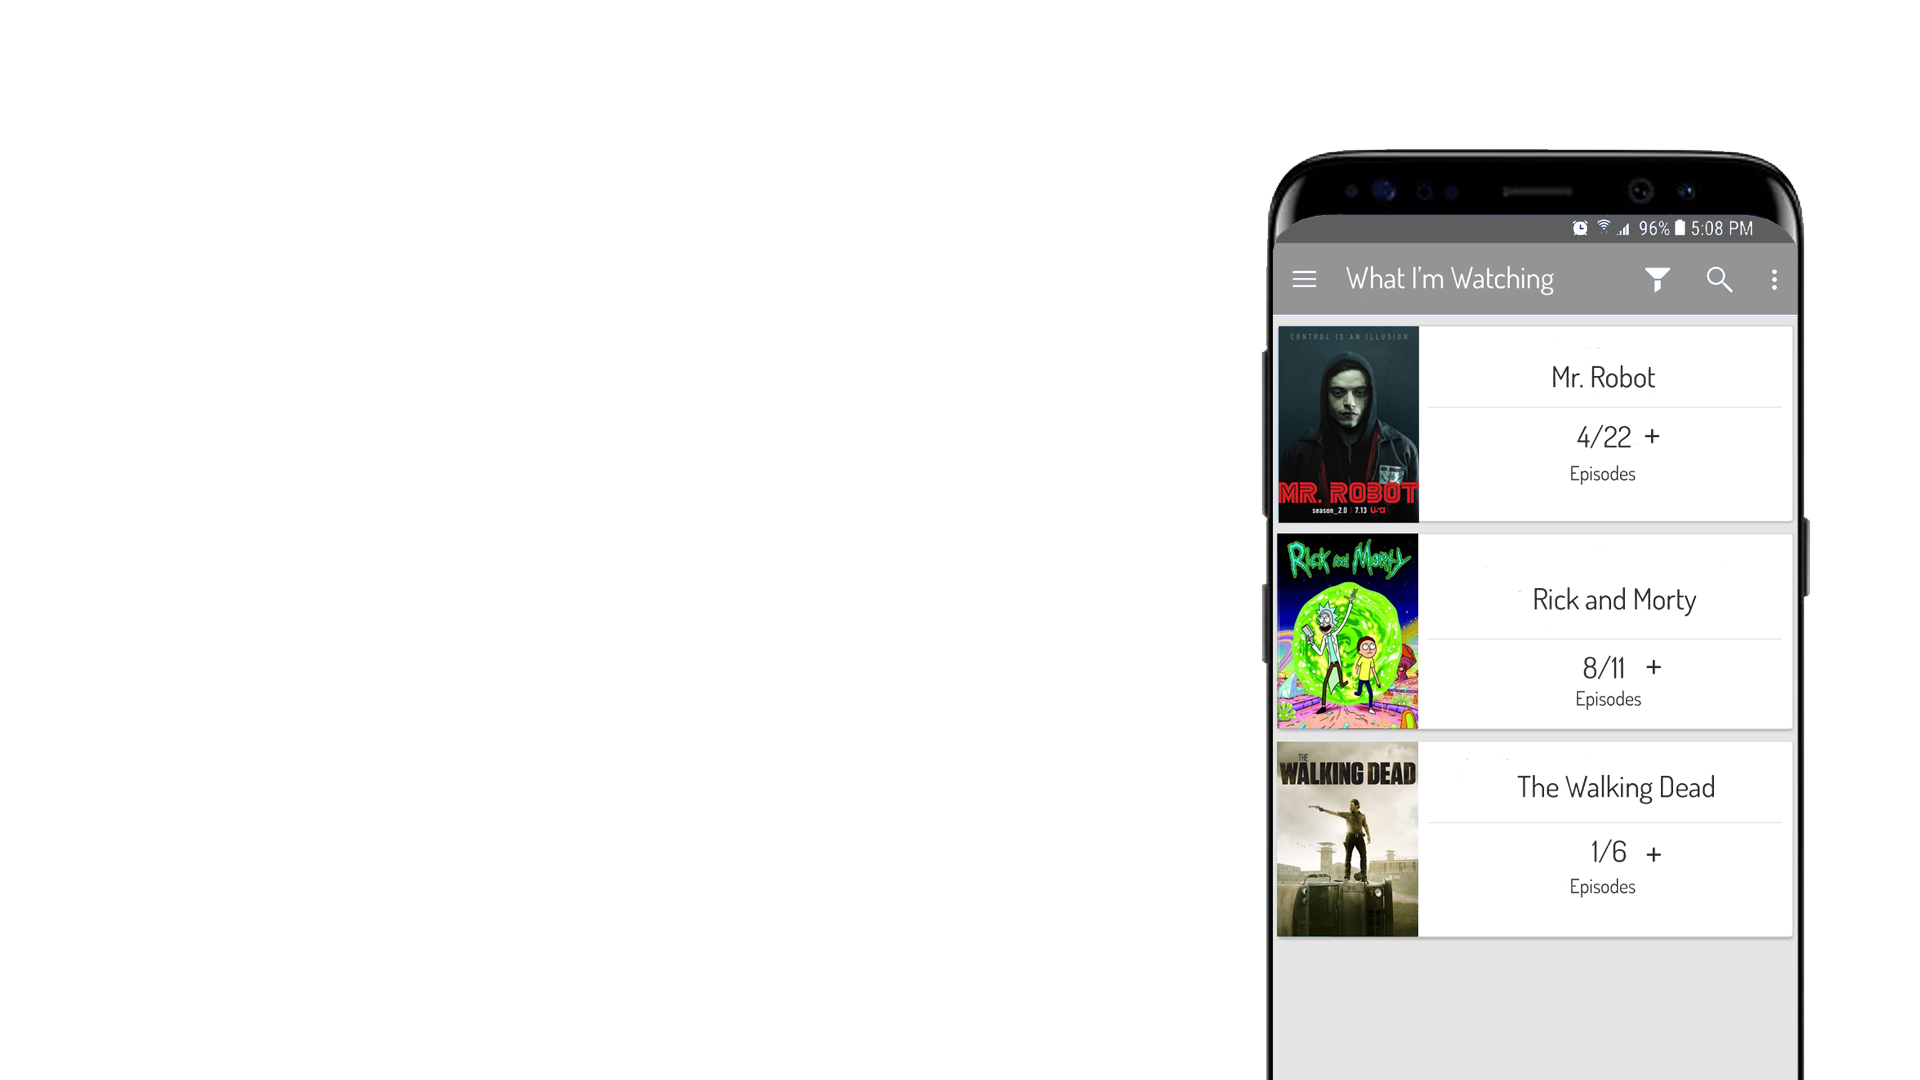
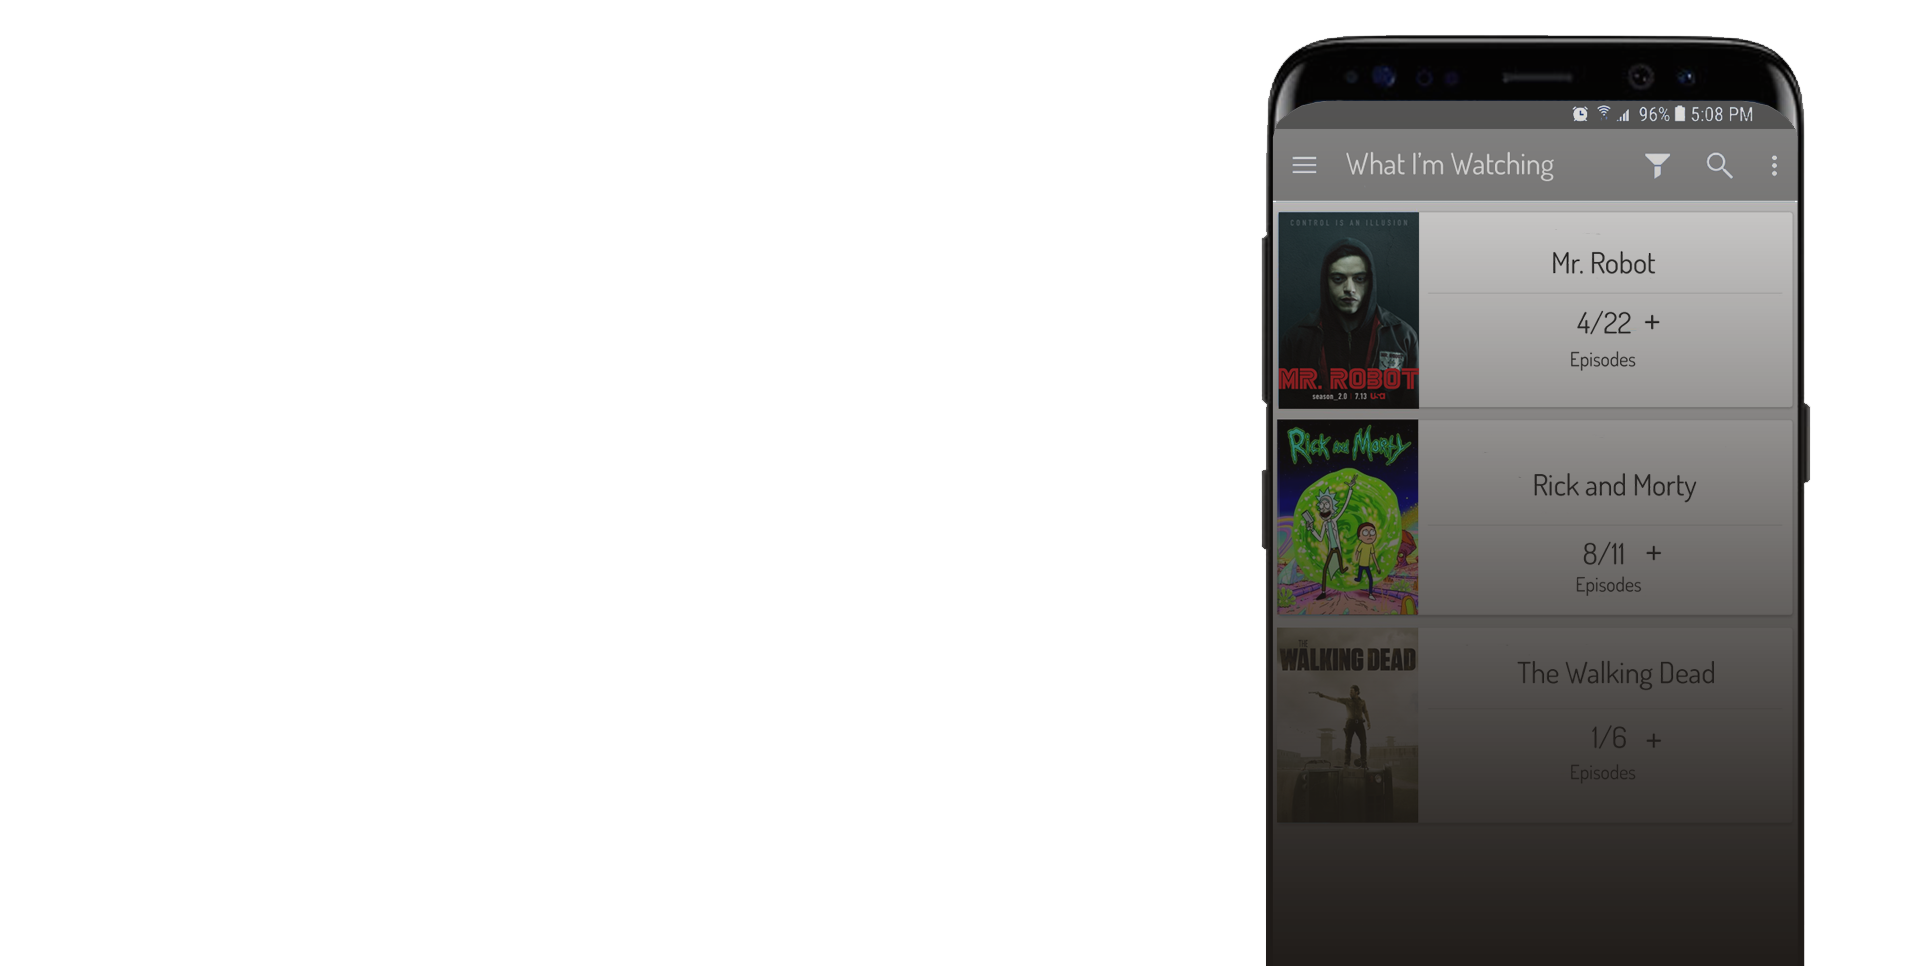
Changed the style further, edited the background image of the features page

Changed region(s): [[0.6562, 0.0311, 0.9688, 1.0]]

diff --git a/CSS/style.css b/CSS/style.css
@@ -17,6 +17,8 @@ body {
 
 p {
 	font-family: "Josefin";
+	font-size: 1.25em;
+	margin: 0.5em;
 }
 /* Buttons */
 .button {
@@ -65,7 +67,7 @@ h2 {
 h3 {
 	color: white;
 	font-family: "Dosis";
-	font-size: 6em;
+	font-size: 4em;
 	padding-top: 0px;
 	padding-bottom: 0px;
 	margin-left: 20px;
@@ -120,8 +122,9 @@ header {
 /* Features page */
 .features {
 	background-image: url("../Images/phone2.png");
-	background-size:75%;
-    	background-repeat: no-repeat;
+	background-size:70%;
+    background-repeat: no-repeat;
+	background-position: right top;
 }
 
 /* Button to sign up or login */
@@ -139,6 +142,7 @@ header {
 	margin-top: -0.75em;
 	height:95vh;
 	background-image: url("../Images/background1.png");
+	background-attachment: fixed;
 }
 
 /* Page anchors (used in order to display the anchor under the navigation bar) */

diff --git a/features.html b/features.html
@@ -1,19 +1,23 @@
 <div class="features">
 <div id="features" class="anchor"></div>
 <h3 style="text-align:left;">Features</h3>
+</br>
 <p>
 •	Watch live streams of your favorite shows along with other fans with live chat
 </p>
-<br>
+</br>
 <p>
 •	Record your watch progress and completed series
 </p>
-<br>
+</br>
 <p>
 •	Discuss with others on dedicated forums and polls
 </p>
-<br>
+</br>
 <p>
 •	Keep an up to date profile and add your friends
 </p>
+</br>
+</br>
+</br>
 </div>
